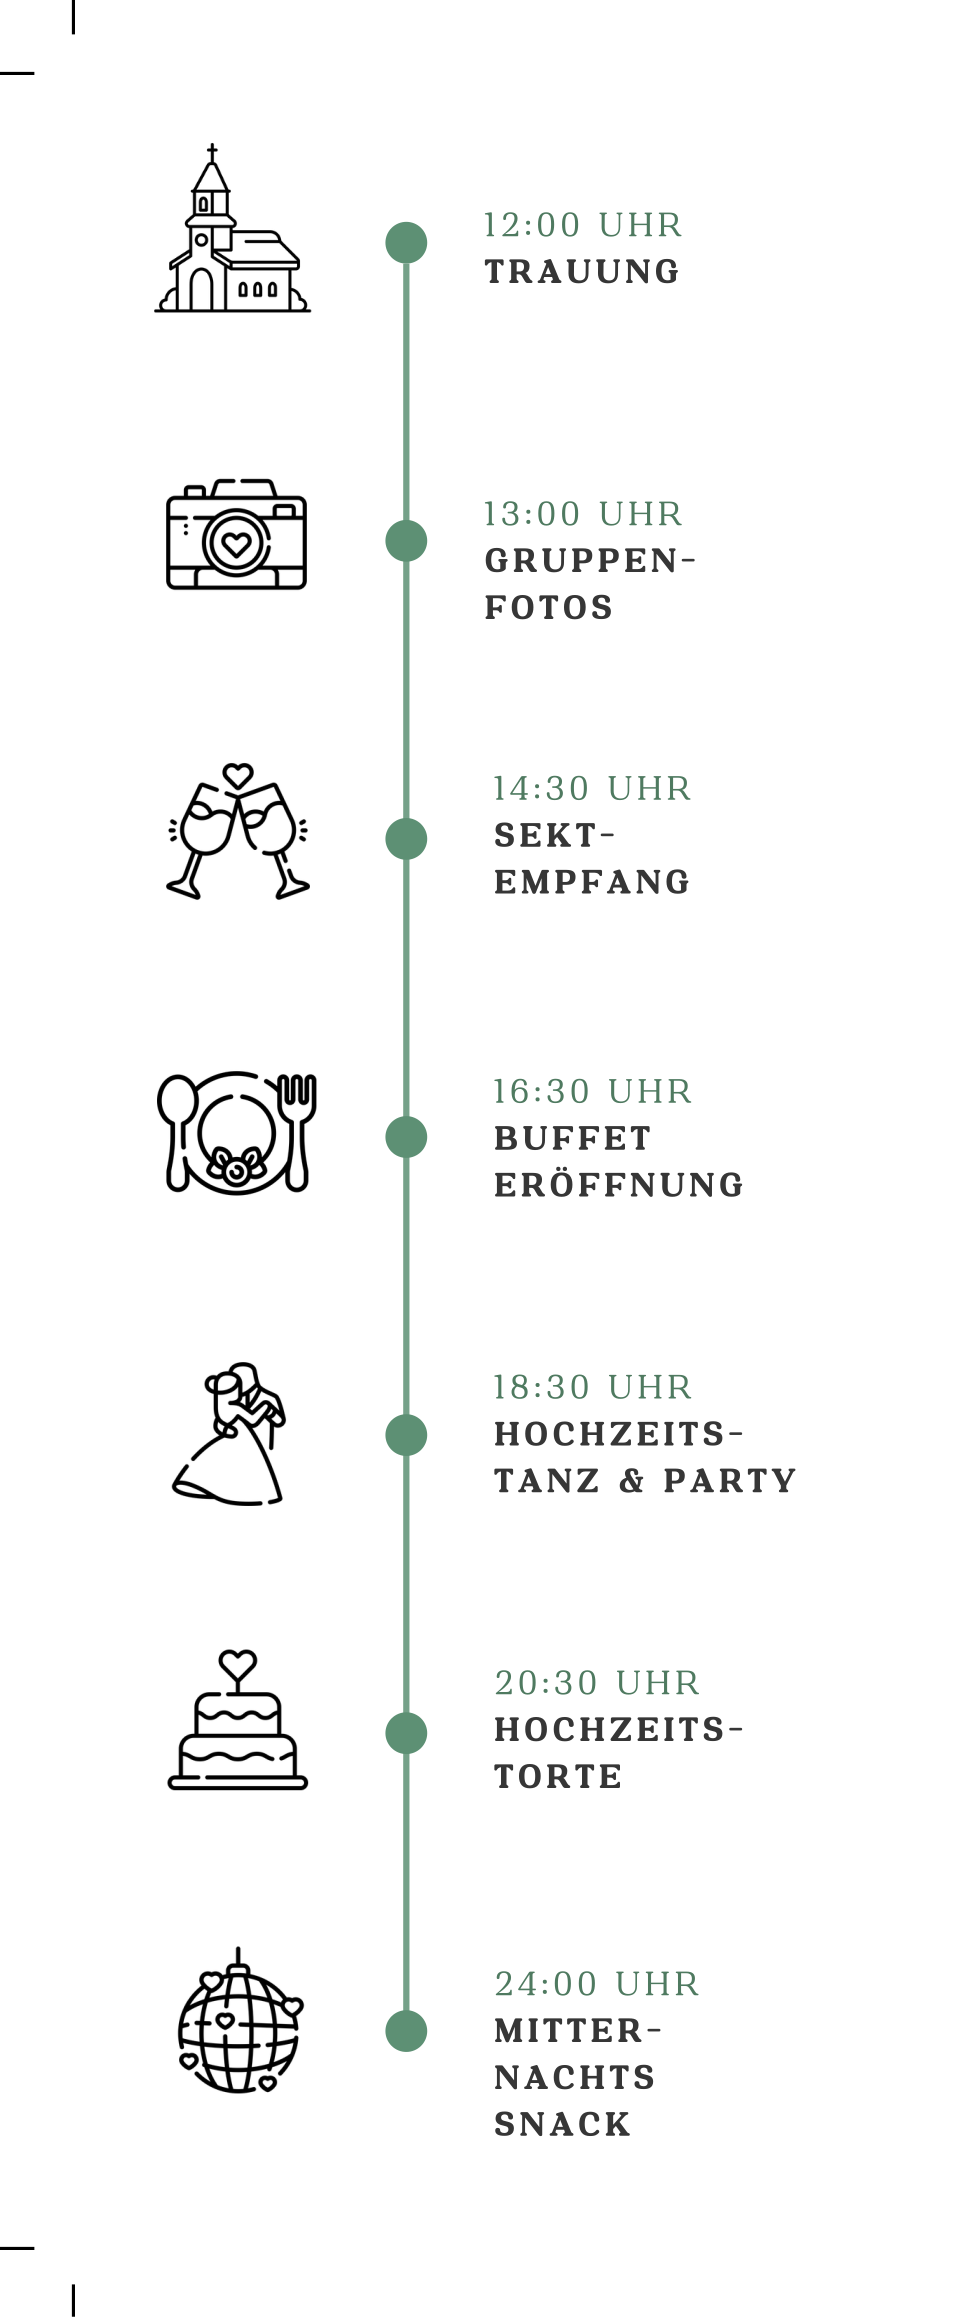
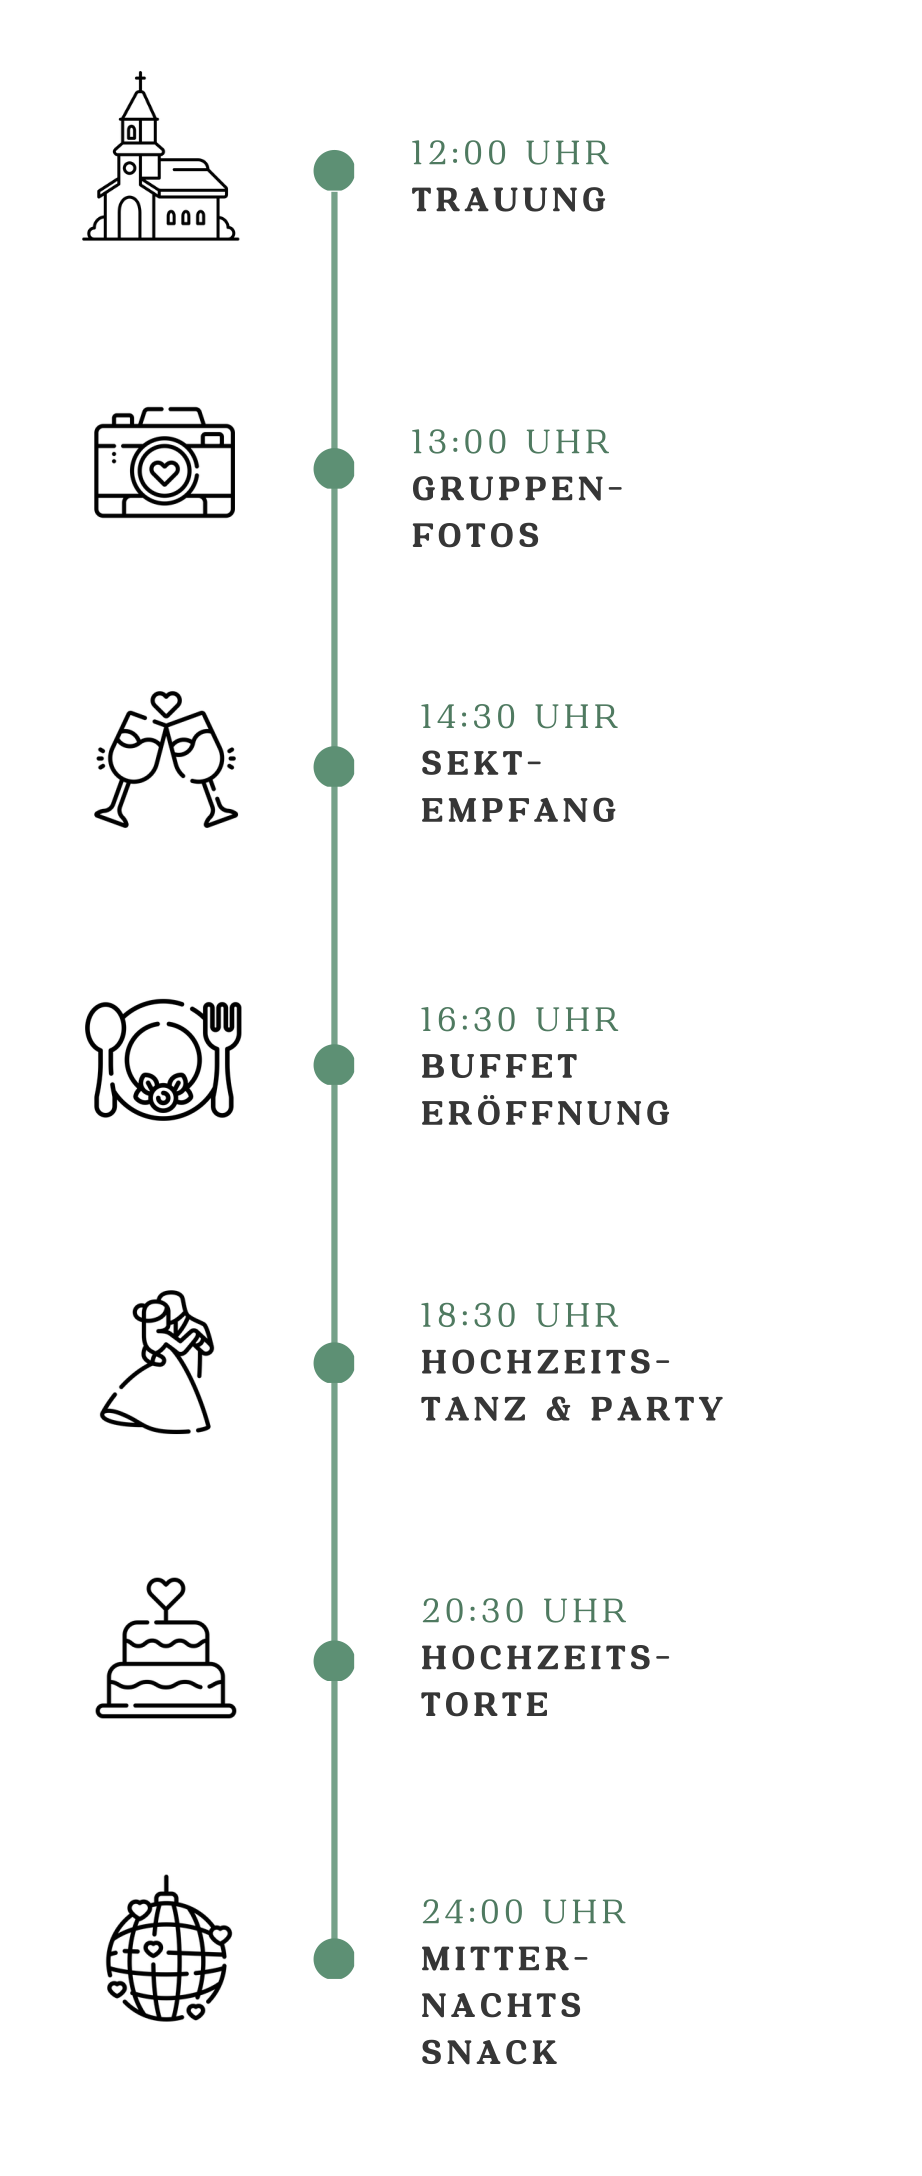
Simplify Tagesablauf image display and update graphic
Drop the scrollable wrapper in favor of a plain inline image, and
swap in the updated timeline graphic.

diff --git a/src/components/tagesablauf/tagesablauf.css b/src/components/tagesablauf/tagesablauf.css
@@ -17,11 +17,6 @@
 
 .tagesablauf-image-wrapper {
   margin-top: 20px;
-  max-height: 70vh;
-  overflow-y: auto;
-  border-radius: 18px;
-  border: 1px solid #e5ece7;
-  background: #f8fbf8;
 }
 
 .tagesablauf-image {
